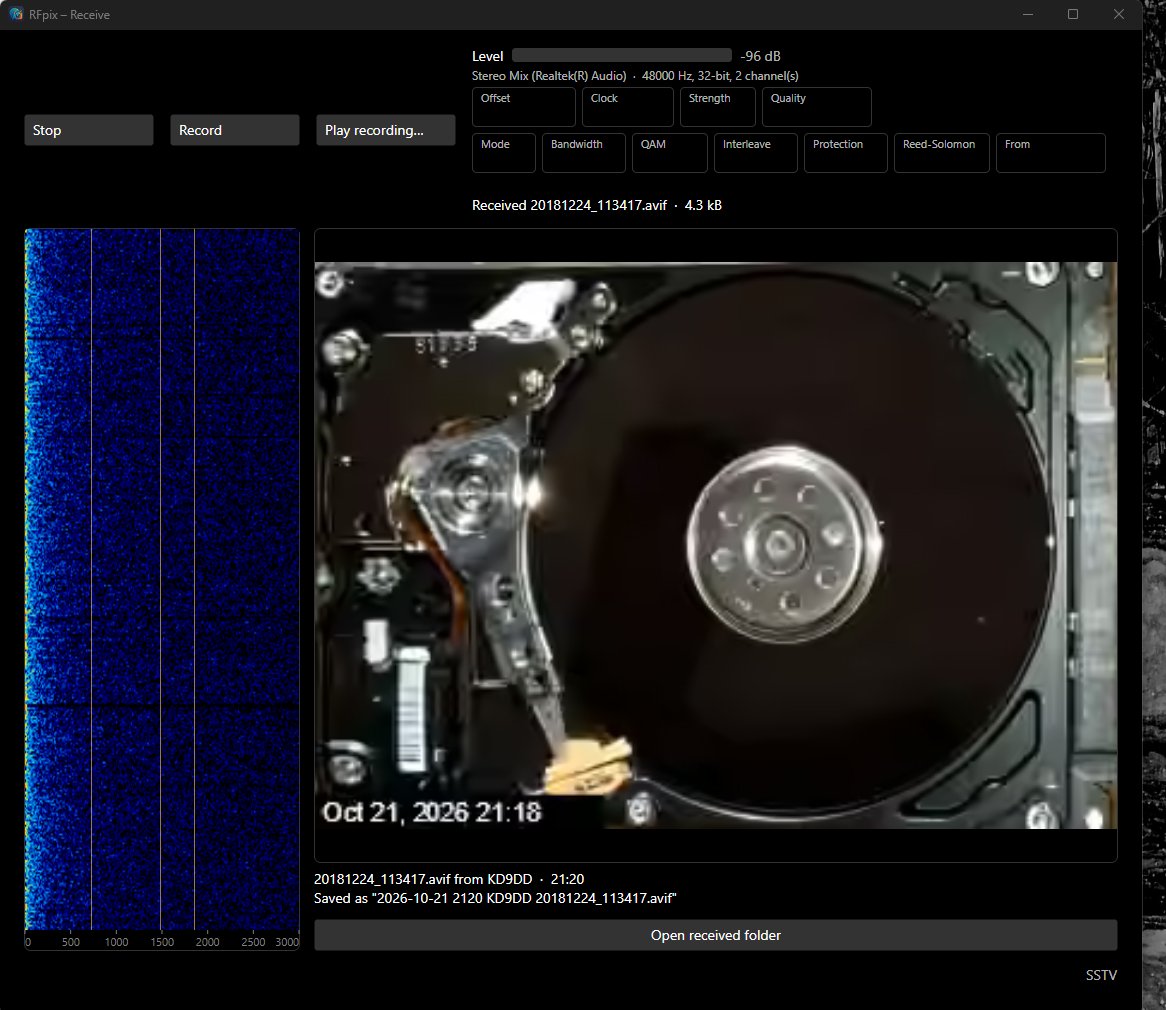
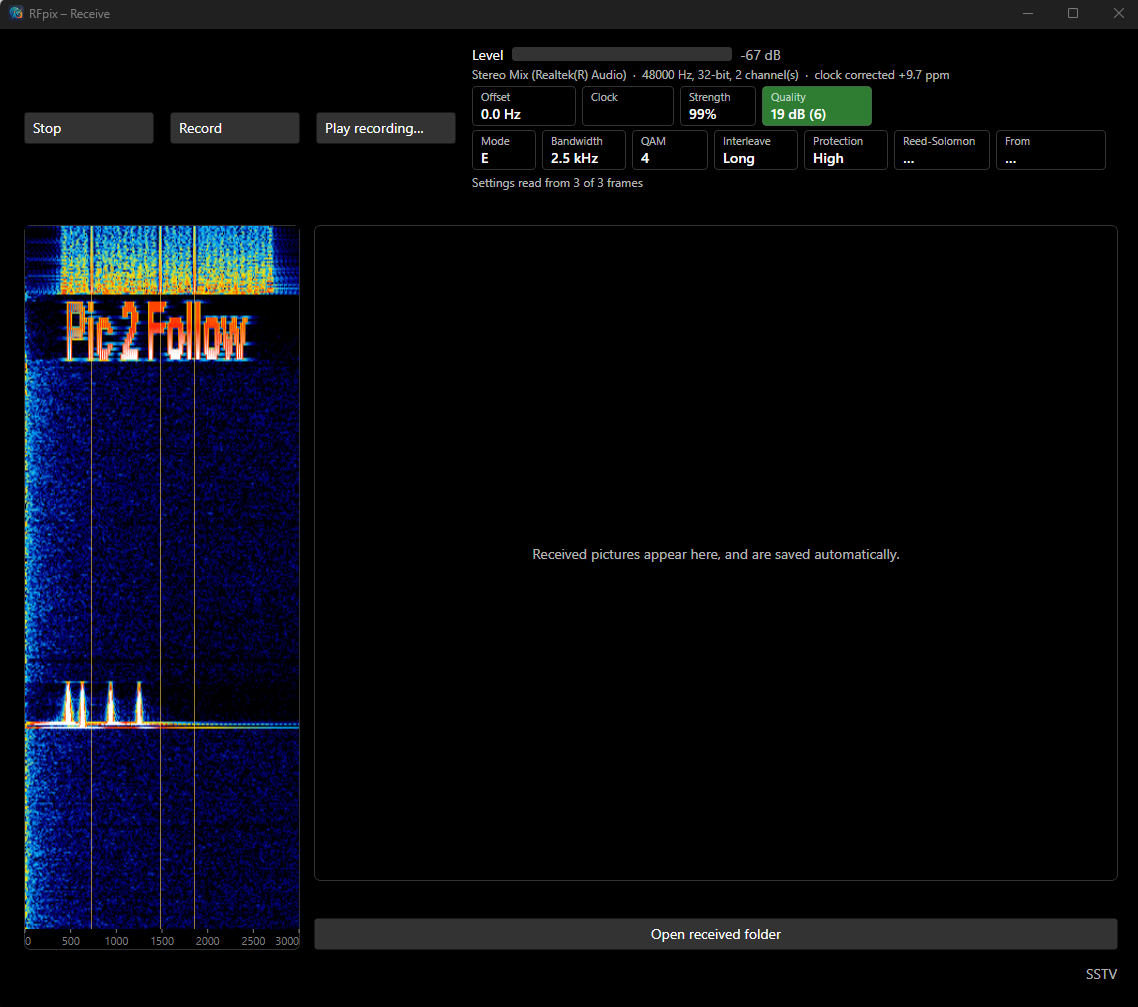
User manual: screenshots for Part 2
Claude-Session: https://claude.ai/code/session_016qnE5LgZEDdPmZeA8BYKMZ

diff --git a/docs/USER_MANUAL.md b/docs/USER_MANUAL.md
@@ -40,9 +40,9 @@ A few things RFpix does for you:
 - **Saves everything.** Every picture received is saved on its own, and can be put on your website automatically.
 - **Adds your callsign.** Templates draw your callsign, a CQ card or a reply on the picture as it goes out.
 
-![The Receive tab (popped out into its own window), with a digital picture just received](images/receive-tab.png)
+![The Receive tab, popped out into its own window, while a digital picture arrives](images/receive-tab.png)
 
-*The Receive tab, popped out into its own window: the waterfall on the left, the signal and settings boxes at the top, and the last picture received.*
+*The Receive tab, popped out into its own window, while a digital picture arrives: the waterfall on the left, the signal and settings boxes at the top, and the picture area on the right.*
 
 ### 2. Installing
 
@@ -119,7 +119,9 @@ When all nine boxes are ticked, RFpix is ready. Part 2 explains receiving and se
 
 Open **TX/RX**, then the **Receive** tab, and click **Start listening**. RFpix listens for digital and analog pictures at the same time, and saves every picture it receives without being asked.
 
-*\[Screenshot: the Receive tab while a digital picture arrives, with the boxes filled in\]*
+![The Receive tab while a digital picture arrives, with the boxes filled in](images/receive-tab.png)
+
+*A digital picture arriving: Mode E, 2.5 kHz, 4-QAM; quality 19 dB where 6 is needed, so the Quality box is green. The waterfall shows the sender's waterfall text ("Pic 2 Follow") above the picture's signal, with its three pilot lines on the marks.*
 
 #### What's on the Receive tab
 
@@ -181,7 +183,9 @@ Click **Pop out Receive** at the top right of the TX/RX page to move the Receive
 
 On the **Send** tab, choose **Digital (HamDRM)**, open a picture, pick how long it should take, and click **Send**. RFpix works out the size and quality that fit that time, and shows the picture exactly as it will go out.
 
-*\[Screenshot: the Send tab in Digital, with a picture open and the green time box\]*
+![The Send tab in Digital, with a picture open and the green time box](images/send-digital.png)
+
+*A 2515 × 1778 photo fitted to 2:00 with the Net repeater profile: sent as 862 × 609 in AVIF, 28.6 kB, 1:59 on the air.*
 
 #### Step by step
 
@@ -265,7 +269,9 @@ The **Template…** button above the pictures draws your callsign, a CQ card or 
 
 On the **Send** tab, choose **Analog SSTV**, open a picture, pick a **Mode**, and click **Send**. Each analog mode has its own picture size and time, so there's no transmit time to choose: RFpix makes the picture fit the mode.
 
-*\[Screenshot: the Send tab in Analog, with the mode list and Fit the picture\]*
+![The Send tab in Analog, with the mode list and Fit the picture](images/send-analog.png)
+
+*The same photo in Scottie 2: filled to the mode's 320 × 256 frame, 1:13 on the air, inside the repeater's 3:00 time-out.*
 
 In analog, the digital-only parts of the tab are hidden (the send settings apart from Repeater time-out and Lead-in, profiles, transmit time, size, quality and format, and the ID, WF TXT and WF PIC buttons). They come back, as you left them, when you switch to **Digital (HamDRM)**.
 
@@ -371,7 +377,9 @@ Templates are kept as files in **Documents\RFpix\Templates**, logos included, so
 
 The **Gallery** page shows every picture you've received and sent, newest first, grouped by day.
 
-*\[Screenshot: the Gallery, Received tab, with Digital and Analog side by side\]*
+![The Gallery, Received tab, with Digital and Analog side by side](images/gallery.png)
+
+*The Received tab: digital pictures on the left, analog on the right, each grouped by day.*
 
 - **Received** shows digital pictures on the left and analog pictures on the right, each with its own count and scroll bar.
 - **Sent** shows the pictures you've sent, each marked **Digital** or **Analog** beside its time.
@@ -393,7 +401,9 @@ Click a picture to see it larger on the right, with what's known about it: who i
 
 RFpix can keep your website showing the latest pictures you've received. It works in two steps, both on **Settings > FTP server**: RFpix saves a JPEG copy of each picture in a folder, and then uploads new pictures from that folder to your web server. It uploads them the same way as the SSTV Auto Uploader, so a website set up for that needs no change.
 
-*\[Screenshot: Settings, FTP server tab\]*
+![Settings, FTP server tab](images/settings-ftp.png)
+
+*Settings, FTP server tab, before anything is filled in.*
 
 #### Setting it up
 
